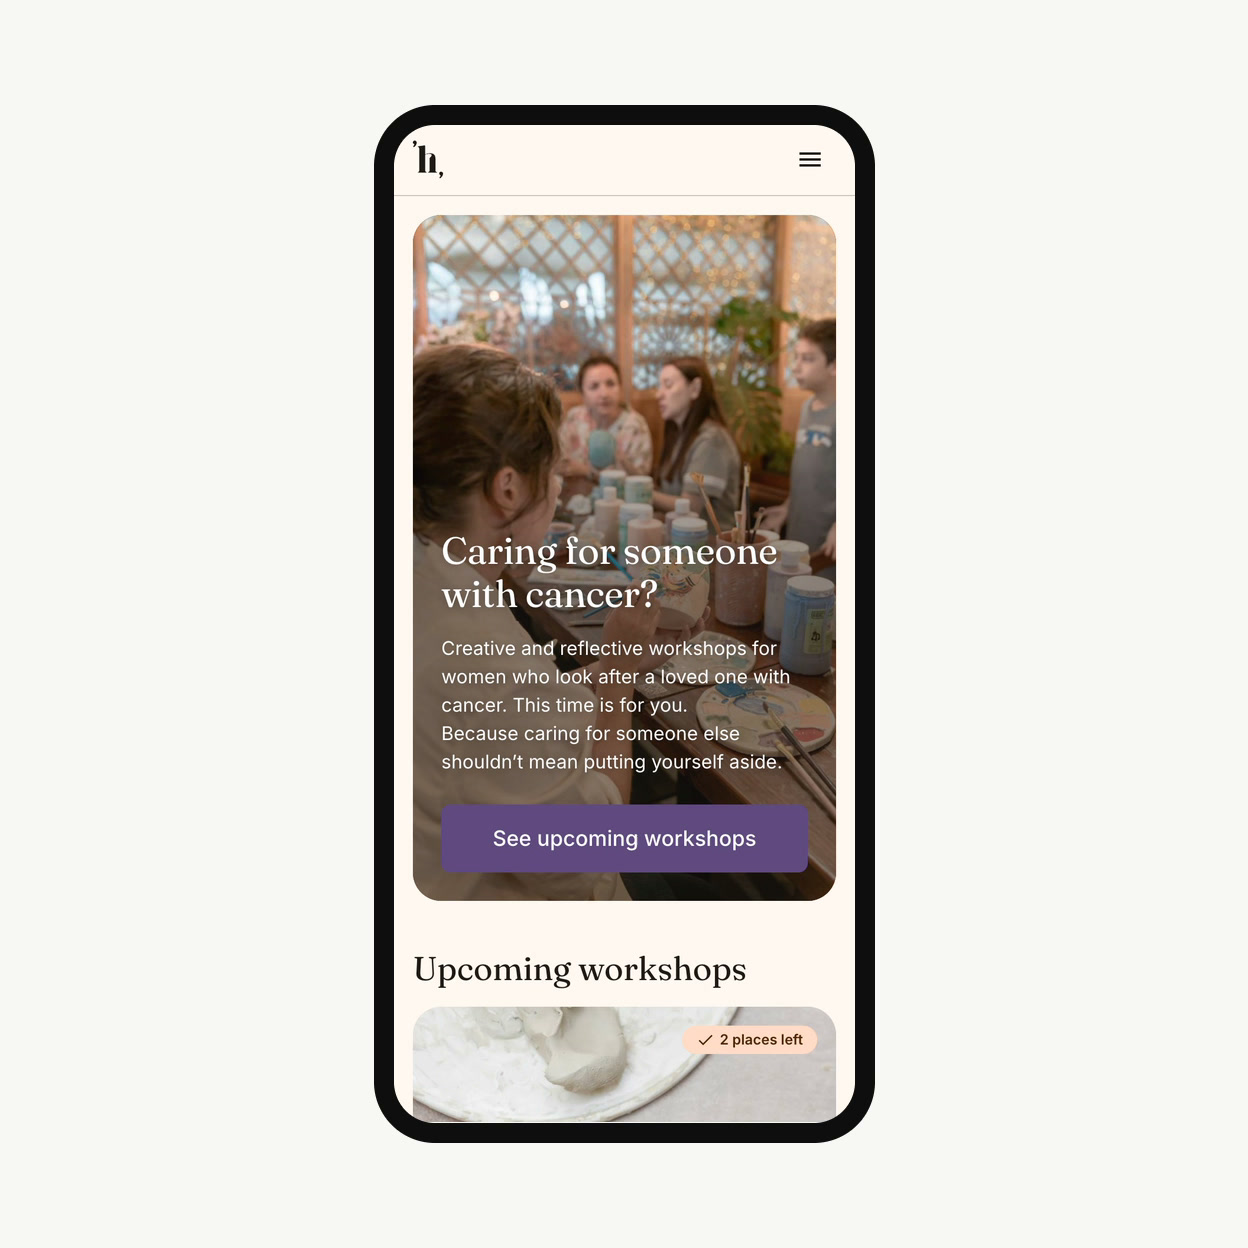
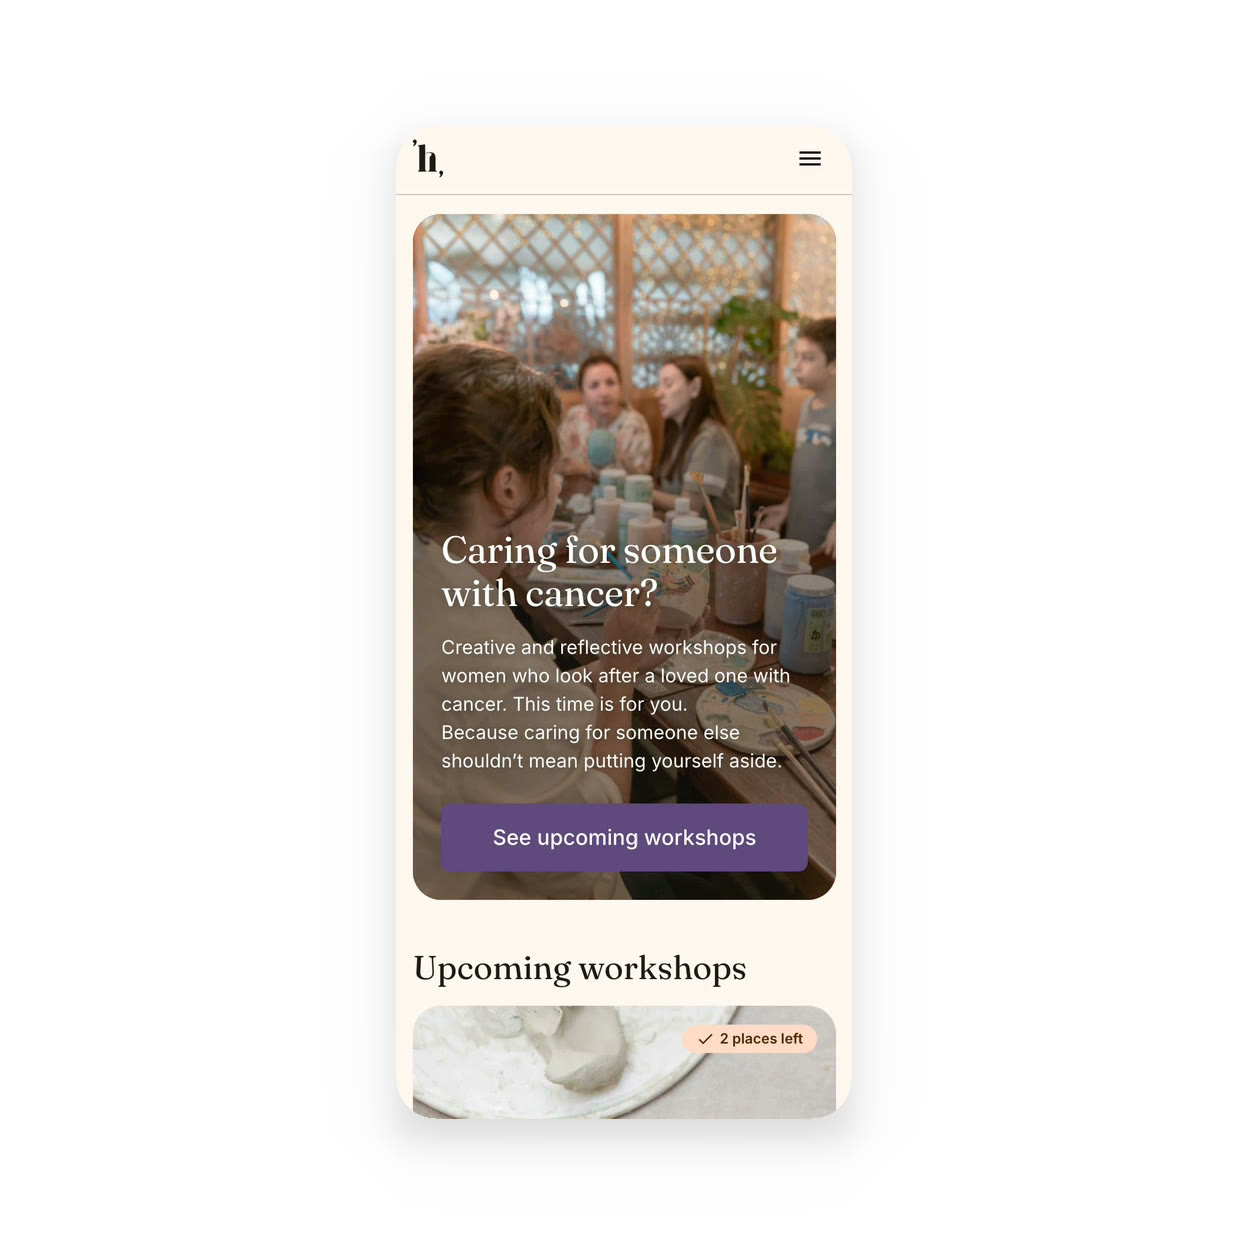
Refresh the home hero and footer, restyle the Her Body, Her Mind card, simpler About intro

diff --git a/02 Site/style.css b/02 Site/style.css
@@ -855,36 +855,21 @@ a { color: inherit; }
   margin: 0 auto;
   object-fit: cover;
 }
+/* Same size as the contact heading "Have an idea or a problem to untangle? Say hello." (founder, 6 Nov 2026), below the photo */
 .aboutme__title {
   position: relative;
-  margin: -0.42em 0 0;
-  font-size: clamp(80px, 19vw, 260px);
+  margin: 32px 0 0;
+  font-size: 40px;
   font-weight: 600;
-  letter-spacing: -0.06em;
-  line-height: 0.9;
-  white-space: nowrap;
+  letter-spacing: -0.03em;
+  line-height: 1.1;
 }
-.aboutme__intro {
-  max-width: 34ch;
-  margin: 40px auto 0;
-  font-size: 28px;
-  letter-spacing: -0.02em;
-  line-height: 1.3;
-}
-/* Staggered: the second paragraph sits off-center to the right */
-.aboutme__more {
-  max-width: 40ch;
-  margin: 64px 0 0 calc(50% - 6ch);
-  text-align: left;
-  font-size: 18px; /* founder, 2026-11-05 */
-  line-height: 1.6;
-  color: var(--text-2);
-}
-.aboutme__action { margin: 32px 0 0 calc(50% - 6ch); text-align: left; }
-@media (max-width: 720px) {
-  .aboutme__intro { font-size: 20px; }
-  .aboutme__more, .aboutme__action { margin-left: 15%; }
-}
+@media (max-width: 720px) { .aboutme__title { font-size: 28px; } }
+/* Intro and second paragraph share one centred column (founder, 6 Nov 2026); the intro matches the home hero's first paragraph */
+.aboutme__intro, .aboutme__more { max-width: 420px; margin-inline: auto; text-align: center; color: var(--text-2); }
+.aboutme__intro { margin-top: 40px; font-size: 20px; line-height: 1.5; }
+.aboutme__more { margin-top: 48px; font-size: 20px; line-height: 1.5; } /* same as the intro, more space between (founder, 6 Nov 2026) */
+.aboutme__action { margin: 32px 0 0; text-align: center; }
 
 /* Experience string: the line draws with scroll, one dot per role (most recent first), education last */
 .tl { margin-top: 120px; padding-bottom: 80px; }
@@ -1118,4 +1103,99 @@ a { color: inherit; }
   .fgrid--2, .cs-hero .fgrid--hero { grid-template-columns: minmax(0, 1fr); }
   .fgrid .fgrid__quote--key { font-size: 26px; }
 }
+
+/* Home hero refresh (founder, 6 Nov 2026): one column, the card stack below the intro; "My AI OS" pills with tooltips; two buttons; proof line */
+.hero { grid-template-columns: minmax(0, 1fr); }
+.hero .hstack { justify-self: start; margin-top: 24px; margin-right: 0; scroll-margin-top: 32px; }
+.hero__label.cs__label { margin: 48px 0 0; font-size: 17px; font-weight: 600; } /* founder, 6 Nov 2026: bigger, so it isn't lost next to the pills */
+.hero__label + .stack { margin-top: 16px; }
+.stack li { position: relative; min-height: 0; padding: 0; background: none; }
+.stack__pill {
+  display: inline-flex;
+  align-items: center;
+  min-height: 44px;
+  padding-inline: 16px;
+  border: 0;
+  border-radius: 999px;
+  background: var(--surface);
+  color: var(--text);
+  font: inherit;
+  font-size: 15px;
+  font-weight: 500;
+  cursor: default;
+}
+.stack__tip {
+  position: absolute;
+  left: 0;
+  bottom: calc(100% + 8px);
+  z-index: 5;
+  width: max-content;
+  max-width: 260px;
+  padding: 8px 12px;
+  border-radius: 12px;
+  background: var(--text);
+  color: #FFFFFF;
+  font-size: 13px;
+  line-height: 1.4;
+  opacity: 0;
+  visibility: hidden;
+  transform: translateY(4px);
+  transition: opacity .25s var(--ease), transform .25s var(--ease), visibility 0s linear .25s;
+  pointer-events: none;
+}
+.stack li.is-tip .stack__tip { opacity: 1; visibility: visible; transform: none; transition-delay: 0s; }
+.hero__ctas { display: flex; flex-wrap: wrap; gap: 12px; margin-top: 40px; }
+.hero__ctas .hero__cta { margin-top: 0; }
+/* Outline button (founder, 6 Nov 2026): the CTA pill, transparent, with a 1.5px #0E0E0E outline */
+.cta--outline { background: transparent; box-shadow: inset 0 0 0 1.5px var(--text); }
+.cta--outline:hover { background: var(--pill); }
+.js .hero__lead > *, .js .hero__intro > :not(.hero__lead) { animation: hero-up 500ms cubic-bezier(0, 0, .2, 1) both; }
+.js .hero__lead > :nth-child(2) { animation-delay: 100ms; }
+.js .hero__intro > :nth-child(2) { animation-delay: 200ms; }
+.js .hero__intro > :nth-child(3), .js .hero__intro > :nth-child(4) { animation-delay: 300ms; }
+.js .hero__intro > :nth-child(5) { animation-delay: 400ms; }
+/* Everything centred (founder, 6 Nov 2026) */
+/* The first paragraph is as wide as the headline, and a little larger */
+.hero__lead { width: min-content; max-width: 100%; margin-inline: auto; }
+.hero__lead .hero__title { white-space: nowrap; }
+.hero__lead .hero__text { max-width: none; font-size: 20px; line-height: 1.5; }
+.hero__lead + .hero__thesis { margin-top: 32px; } /* founder, 6 Nov 2026: more room before the highlight */
+/* Second paragraph: the light purple marker from the Her Body, Her Mind case study, with dark text (about 15:1) */
+.hero__mark { padding: 2px 6px; background: color-mix(in srgb, var(--accent) 18%, transparent); -webkit-box-decoration-break: clone; box-decoration-break: clone; line-height: 1.75; }
+.hero__intro { text-align: center; }
+.hero__intro .hero__text { margin-inline: auto; }
+.hero__intro .stack, .hero__ctas { justify-content: center; }
+.stack li:first-child .stack__tip { left: 0; }
+.stack__tip { left: 50%; transform: translate(-50%, 4px); text-align: left; }
+.stack li.is-tip .stack__tip { transform: translate(-50%, 0); }
+/* The cards fan out to the right (about 1.54 times the front card), so the whole fan is centred */
+.hero .hstack { justify-self: center; translate: -27% 0; }
+.hcap { text-align: center; }
+.hcap__problem { margin-inline: auto; }
+.hcap__nav { justify-content: center; }
+@keyframes hero-up { from { opacity: 0; transform: translateY(12px); } to { opacity: 1; transform: none; } }
+@media (max-width: 720px) {
+  .hero { overflow-x: clip; } /* the card fan is wider than a phone; clip it so the page doesn't scroll sideways */
+  .hero .hstack { justify-self: start; translate: none; }
+  .hcap { text-align: left; }
+  .hcap__nav { justify-content: flex-start; }
+  .hcap__problem { margin-inline: 0; }
+  .hero__ctas { flex-direction: column; }
+  .hero__ctas .cta { justify-content: center; }
+  .hero__ctas .cta--dark { order: -1; }
+}
+@media (prefers-reduced-motion: reduce) {
+  html { scroll-behavior: auto; }
+  .js .hero__lead > *, .js .hero__intro > :not(.hero__lead) { animation: none; }
+  .stack__tip { transition: none; }
+}
+
+/* Contact form centred, in the home footer and on the contact page (founder, 6 Nov 2026); fields stay left-aligned inside */
+.cform__title, .cpage .cform__title { margin-inline: auto; text-align: center; }
+.cform, .cform__done { margin-inline: auto; }
+.cform__actions { justify-items: center; }
+.cform__done { text-align: center; }
+.footer:has(.cform) .footer__label { text-align: center; }
+/* "Say hello" above the home form: the "My AI OS" label size (founder, 6 Nov 2026) */
+.footer__label.footer__label--hello { margin-bottom: 16px; font-size: 17px; font-weight: 600; color: var(--accent-text); }
 

diff --git a/02 Site/index.html b/02 Site/index.html
@@ -7,8 +7,8 @@
   <link rel="preconnect" href="https://fonts.googleapis.com">
   <link rel="preconnect" href="https://fonts.gstatic.com" crossorigin>
   <link rel="stylesheet" href="https://fonts.googleapis.com/css2?family=Manrope:wght@400;500;600&display=swap">
-  <link rel="stylesheet" href="style.css?v=20261106b">
-  <script src="main.js?v=20261106b" defer></script>
+  <link rel="stylesheet" href="style.css?v=20261106i">
+  <script src="main.js?v=20261106i" defer></script>
 </head>
 <body>
   <a class="skip" href="#main">Skip to content</a>
@@ -21,13 +21,19 @@
   <main id="main">
     <section class="hero container section" id="work">
       <div class="hero__intro">
+        <div class="hero__lead">
         <h1 class="hero__title">Hi, I’m Farnaz,</h1>
-        <p class="hero__text">a Berlin-based product designer with 7+ years in digital products. My mixed bag of crafts shapes how I think and design.</p>
-        <p class="hero__text hero__thesis">I work with AI-assisted workflows I build myself, starting from people and ending with a test.</p>
-        <ul class="stack" aria-label="My AI stack"><li>Claude Code</li><li>Claude Design</li><li>ChatGPT</li><li>Figma</li><li>FigJam</li></ul>
-        <a class="cta cta--dark hero__cta" href="#contact"><svg class="cta__icon" viewBox="0 0 24 24" aria-hidden="true" focusable="false"><rect x="3" y="5" width="18" height="14" rx="2" fill="none" stroke="currentColor" stroke-width="1.8"/><path d="m4 7 8 6 8-6" fill="none" stroke="currentColor" stroke-width="1.8" stroke-linecap="round" stroke-linejoin="round"/></svg><span class="cta__label">Let’s work together</span></a>
+        <p class="hero__text">a Berlin-based product designer with 7+ years in digital products. I connect research, UX, UI and motion into one practice, from first insight to final animation.</p>
+        </div>
+        <p class="hero__text hero__thesis"><span class="hero__mark">I build my own AI-assisted workflows, starting from people and ending with a test. AI speeds me up. Every decision is mine.</span></p>
+        <p class="cs__label hero__label" id="ai-os">My AI OS</p>
+        <ul class="stack" aria-labelledby="ai-os"><li><button class="stack__pill" type="button" aria-describedby="tip-1">Claude Code</button><span class="stack__tip" id="tip-1" role="tooltip">Builds and ships this portfolio.</span></li><li><button class="stack__pill" type="button" aria-describedby="tip-2">Claude Design</button><span class="stack__tip" id="tip-2" role="tooltip">The source of truth for my design systems.</span></li><li><button class="stack__pill" type="button" aria-describedby="tip-3">ChatGPT</button><span class="stack__tip" id="tip-3" role="tooltip">Helps me write up and document my case studies.</span></li><li><button class="stack__pill" type="button" aria-describedby="tip-4">Figma</button><span class="stack__tip" id="tip-4" role="tooltip">Where I explore and refine UI.</span></li><li><button class="stack__pill" type="button" aria-describedby="tip-5">FigJam</button><span class="stack__tip" id="tip-5" role="tooltip">Where I map journeys, run workshops and synthesise research.</span></li></ul>
+        <div class="hero__ctas">
+          <a class="cta cta--outline" href="#cases"><span class="cta__label">See my work</span></a>
+          <a class="cta cta--dark hero__cta" href="#contact"><svg class="cta__icon" viewBox="0 0 24 24" aria-hidden="true" focusable="false"><rect x="3" y="5" width="18" height="14" rx="2" fill="none" stroke="currentColor" stroke-width="1.8"/><path d="m4 7 8 6 8-6" fill="none" stroke="currentColor" stroke-width="1.8" stroke-linecap="round" stroke-linejoin="round"/></svg><span class="cta__label">Let’s work together</span></a>
+        </div>
       </div>
-      <div class="hstack" aria-label="Case studies">
+      <div class="hstack" id="cases" aria-label="Case studies">
           <a class="hstack__card" href="herbody-her-mind.html" data-tag="Own project · Since September 2025 · AI-assisted" data-title="Her Body, Her Mind" data-problem="Designing a first service for women caring for someone with cancer using AI-assisted workflows as solo founder" aria-label="Her Body, Her Mind"><img src="assets/herbody-her-mind/stack.jpg" alt=""></a>
           <a class="hstack__card" href="sumup-data-viz.html" data-tag="SumUp · 2022 to 2024" data-title="Building SumUp’s Chart System" data-problem="I systemized SumUp’s complex chart patterns, with many variables and states, into simple building blocks. Designers and engineers can now build consistent charts faster, from dashboards to the homescreen sales widget." aria-label="Data viz for SumUp products"><img src="assets/sumup-data-viz/stack.jpg" alt="" style="--pos: 78% 50%"></a>
           <a class="hstack__card" href="sumup-first-time-user-experience.html" data-tag="SumUp · 2023 to 2024" data-title="Shaping How New Users Get Started" data-problem="I helped define how new users get started after sign-up. I mapped the journey, built the logic that routes users to what they need, and designed the cards, banners, and states that guide them to activation." aria-label="First time user experience"><img src="assets/sumup-first-time-user-experience/stack.jpg" alt=""></a>
@@ -40,7 +46,7 @@
   </main>
   <footer class="site-footer" id="contact">
     <div class="container footer">
-      <p class="footer__label">Contact</p>
+      <p class="footer__label footer__label--hello">Say hello</p>
         <h2 class="cform__title" id="cf-title">Have an idea or a problem to untangle? Say hello.</h2>
         <!-- Formspree form meaadwvb (formspree.io). The same form is in index.html and contact.html; change the ID in both. -->
         <form class="cform" data-cform method="POST" action="https://formspree.io/f/meaadwvb" aria-labelledby="cf-title">

diff --git a/02 Site/herbody-her-mind.html b/02 Site/herbody-her-mind.html
@@ -7,15 +7,15 @@
   <link rel="preconnect" href="https://fonts.googleapis.com">
   <link rel="preconnect" href="https://fonts.gstatic.com" crossorigin>
   <link rel="stylesheet" href="https://fonts.googleapis.com/css2?family=Manrope:wght@400;500;600&display=swap">
-  <link rel="stylesheet" href="style.css?v=20261106b">
+  <link rel="stylesheet" href="style.css?v=20261106i">
   <link rel="stylesheet" href="https://fonts.googleapis.com/css2?family=Fraunces:ital,opsz,wght@0,9..144,400;0,9..144,600;1,9..144,400&family=Inter:wght@400;500;600;700&family=Roboto+Mono&display=swap">
-  <link rel="stylesheet" href="assets/hbhm/tokens.css?v=20261106b">
-  <link rel="stylesheet" href="assets/hbhm/components.css?v=20261106b">
-  <link rel="stylesheet" href="assets/hbhm/bento.css?v=20261106b">
-  <script src="assets/hbhm/bento.js?v=20261106b" defer></script>
-  <link rel="stylesheet" href="assets/hbhm/happy-path.css?v=20261106b">
-  <script src="assets/hbhm/happy-path.js?v=20261106b" defer></script>
-  <script src="main.js?v=20261106b" defer></script>
+  <link rel="stylesheet" href="assets/hbhm/tokens.css?v=20261106i">
+  <link rel="stylesheet" href="assets/hbhm/components.css?v=20261106i">
+  <link rel="stylesheet" href="assets/hbhm/bento.css?v=20261106i">
+  <script src="assets/hbhm/bento.js?v=20261106i" defer></script>
+  <link rel="stylesheet" href="assets/hbhm/happy-path.css?v=20261106i">
+  <script src="assets/hbhm/happy-path.js?v=20261106i" defer></script>
+  <script src="main.js?v=20261106i" defer></script>
 </head>
 <body>
   <a class="skip" href="#main">Skip to content</a>

diff --git a/02 Site/main.js b/02 Site/main.js
@@ -394,3 +394,20 @@ if (insight) {
   const io = new IntersectionObserver((es) => es.forEach((e) => { if (e.isIntersecting) { e.target.classList.add("is-in"); io.unobserve(e.target); } }), { threshold: 0.15 });
   grids.forEach((g) => io.observe(g));
 })();
+
+// "My AI OS" pills: one tooltip at a time, on hover, keyboard focus or tap; Esc closes it
+const pills = [...document.querySelectorAll(".stack__pill")];
+if (pills.length) {
+  const close = () => pills.forEach((p) => p.parentElement.classList.remove("is-tip"));
+  const open = (p) => { close(); p.parentElement.classList.add("is-tip"); };
+  pills.forEach((p) => {
+    p.addEventListener("mouseenter", () => open(p));
+    p.addEventListener("mouseleave", close);
+    p.addEventListener("focus", () => open(p));
+    p.addEventListener("blur", close);
+    p.addEventListener("click", () => (p.parentElement.classList.contains("is-tip") && !p.matches(":hover") ? close() : open(p)));
+  });
+  document.addEventListener("keydown", (e) => { if (e.key === "Escape") close(); });
+  document.addEventListener("click", (e) => { if (!e.target.closest(".stack__pill")) close(); });
+}
+

diff --git a/02 Site/about.html b/02 Site/about.html
@@ -7,8 +7,8 @@
   <link rel="preconnect" href="https://fonts.googleapis.com">
   <link rel="preconnect" href="https://fonts.gstatic.com" crossorigin>
   <link rel="stylesheet" href="https://fonts.googleapis.com/css2?family=Manrope:wght@400;500;600&display=swap">
-  <link rel="stylesheet" href="style.css?v=20261106b">
-  <script src="main.js?v=20261106b" defer></script>
+  <link rel="stylesheet" href="style.css?v=20261106i">
+  <script src="main.js?v=20261106i" defer></script>
 </head>
 <body>
   <a class="skip" href="#main">Skip to content</a>

diff --git a/02 Site/contact.html b/02 Site/contact.html
@@ -7,8 +7,8 @@
   <link rel="preconnect" href="https://fonts.googleapis.com">
   <link rel="preconnect" href="https://fonts.gstatic.com" crossorigin>
   <link rel="stylesheet" href="https://fonts.googleapis.com/css2?family=Manrope:wght@400;500;600&display=swap">
-  <link rel="stylesheet" href="style.css?v=20261106b">
-  <script src="main.js?v=20261106b" defer></script>
+  <link rel="stylesheet" href="style.css?v=20261106i">
+  <script src="main.js?v=20261106i" defer></script>
 </head>
 <body>
   <a class="skip" href="#main">Skip to content</a>

diff --git a/02 Site/playground.html b/02 Site/playground.html
@@ -7,8 +7,8 @@
   <link rel="preconnect" href="https://fonts.googleapis.com">
   <link rel="preconnect" href="https://fonts.gstatic.com" crossorigin>
   <link rel="stylesheet" href="https://fonts.googleapis.com/css2?family=Manrope:wght@400;500;600&display=swap">
-  <link rel="stylesheet" href="style.css?v=20261106b">
-  <script src="main.js?v=20261106b" defer></script>
+  <link rel="stylesheet" href="style.css?v=20261106i">
+  <script src="main.js?v=20261106i" defer></script>
 </head>
 <body>
   <a class="skip" href="#main">Skip to content</a>

diff --git a/02 Site/sumup-data-viz.html b/02 Site/sumup-data-viz.html
@@ -7,8 +7,8 @@
   <link rel="preconnect" href="https://fonts.googleapis.com">
   <link rel="preconnect" href="https://fonts.gstatic.com" crossorigin>
   <link rel="stylesheet" href="https://fonts.googleapis.com/css2?family=Manrope:wght@400;500;600&display=swap">
-  <link rel="stylesheet" href="style.css?v=20261106b">
-  <script src="main.js?v=20261106b" defer></script>
+  <link rel="stylesheet" href="style.css?v=20261106i">
+  <script src="main.js?v=20261106i" defer></script>
 </head>
 <body>
   <a class="skip" href="#main">Skip to content</a>

diff --git a/02 Site/sumup-fee-summary-box.html b/02 Site/sumup-fee-summary-box.html
@@ -7,8 +7,8 @@
   <link rel="preconnect" href="https://fonts.googleapis.com">
   <link rel="preconnect" href="https://fonts.gstatic.com" crossorigin>
   <link rel="stylesheet" href="https://fonts.googleapis.com/css2?family=Manrope:wght@400;500;600&display=swap">
-  <link rel="stylesheet" href="style.css?v=20261106b">
-  <script src="main.js?v=20261106b" defer></script>
+  <link rel="stylesheet" href="style.css?v=20261106i">
+  <script src="main.js?v=20261106i" defer></script>
 </head>
 <body>
   <a class="skip" href="#main">Skip to content</a>

diff --git a/02 Site/sumup-first-time-user-experience.html b/02 Site/sumup-first-time-user-experience.html
@@ -7,8 +7,8 @@
   <link rel="preconnect" href="https://fonts.googleapis.com">
   <link rel="preconnect" href="https://fonts.gstatic.com" crossorigin>
   <link rel="stylesheet" href="https://fonts.googleapis.com/css2?family=Manrope:wght@400;500;600&display=swap">
-  <link rel="stylesheet" href="style.css?v=20261106b">
-  <script src="main.js?v=20261106b" defer></script>
+  <link rel="stylesheet" href="style.css?v=20261106i">
+  <script src="main.js?v=20261106i" defer></script>
 </head>
 <body>
   <a class="skip" href="#main">Skip to content</a>

diff --git a/02 Site/sumup-profile-and-settings.html b/02 Site/sumup-profile-and-settings.html
@@ -7,8 +7,8 @@
   <link rel="preconnect" href="https://fonts.googleapis.com">
   <link rel="preconnect" href="https://fonts.gstatic.com" crossorigin>
   <link rel="stylesheet" href="https://fonts.googleapis.com/css2?family=Manrope:wght@400;500;600&display=swap">
-  <link rel="stylesheet" href="style.css?v=20261106b">
-  <script src="main.js?v=20261106b" defer></script>
+  <link rel="stylesheet" href="style.css?v=20261106i">
+  <script src="main.js?v=20261106i" defer></script>
 </head>
 <body>
   <a class="skip" href="#main">Skip to content</a>

diff --git a/02 Site/zizoo-components-library.html b/02 Site/zizoo-components-library.html
@@ -7,8 +7,8 @@
   <link rel="preconnect" href="https://fonts.googleapis.com">
   <link rel="preconnect" href="https://fonts.gstatic.com" crossorigin>
   <link rel="stylesheet" href="https://fonts.googleapis.com/css2?family=Manrope:wght@400;500;600&display=swap">
-  <link rel="stylesheet" href="style.css?v=20261106b">
-  <script src="main.js?v=20261106b" defer></script>
+  <link rel="stylesheet" href="style.css?v=20261106i">
+  <script src="main.js?v=20261106i" defer></script>
 </head>
 <body>
   <a class="skip" href="#main">Skip to content</a>
